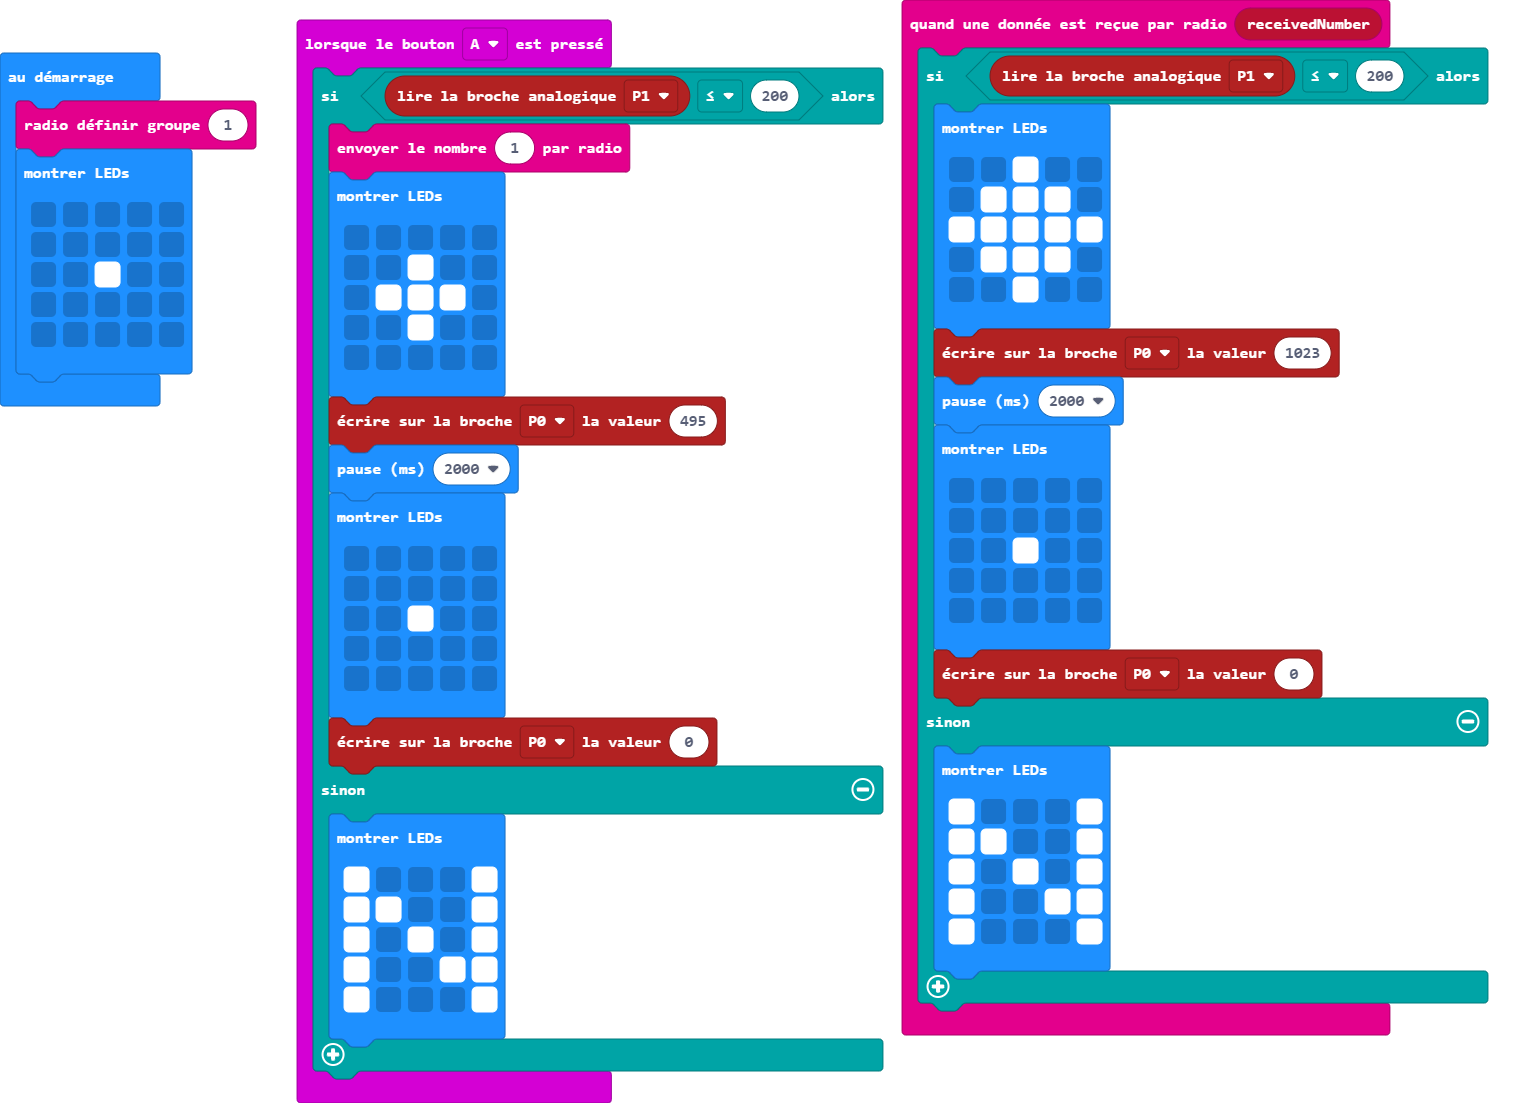
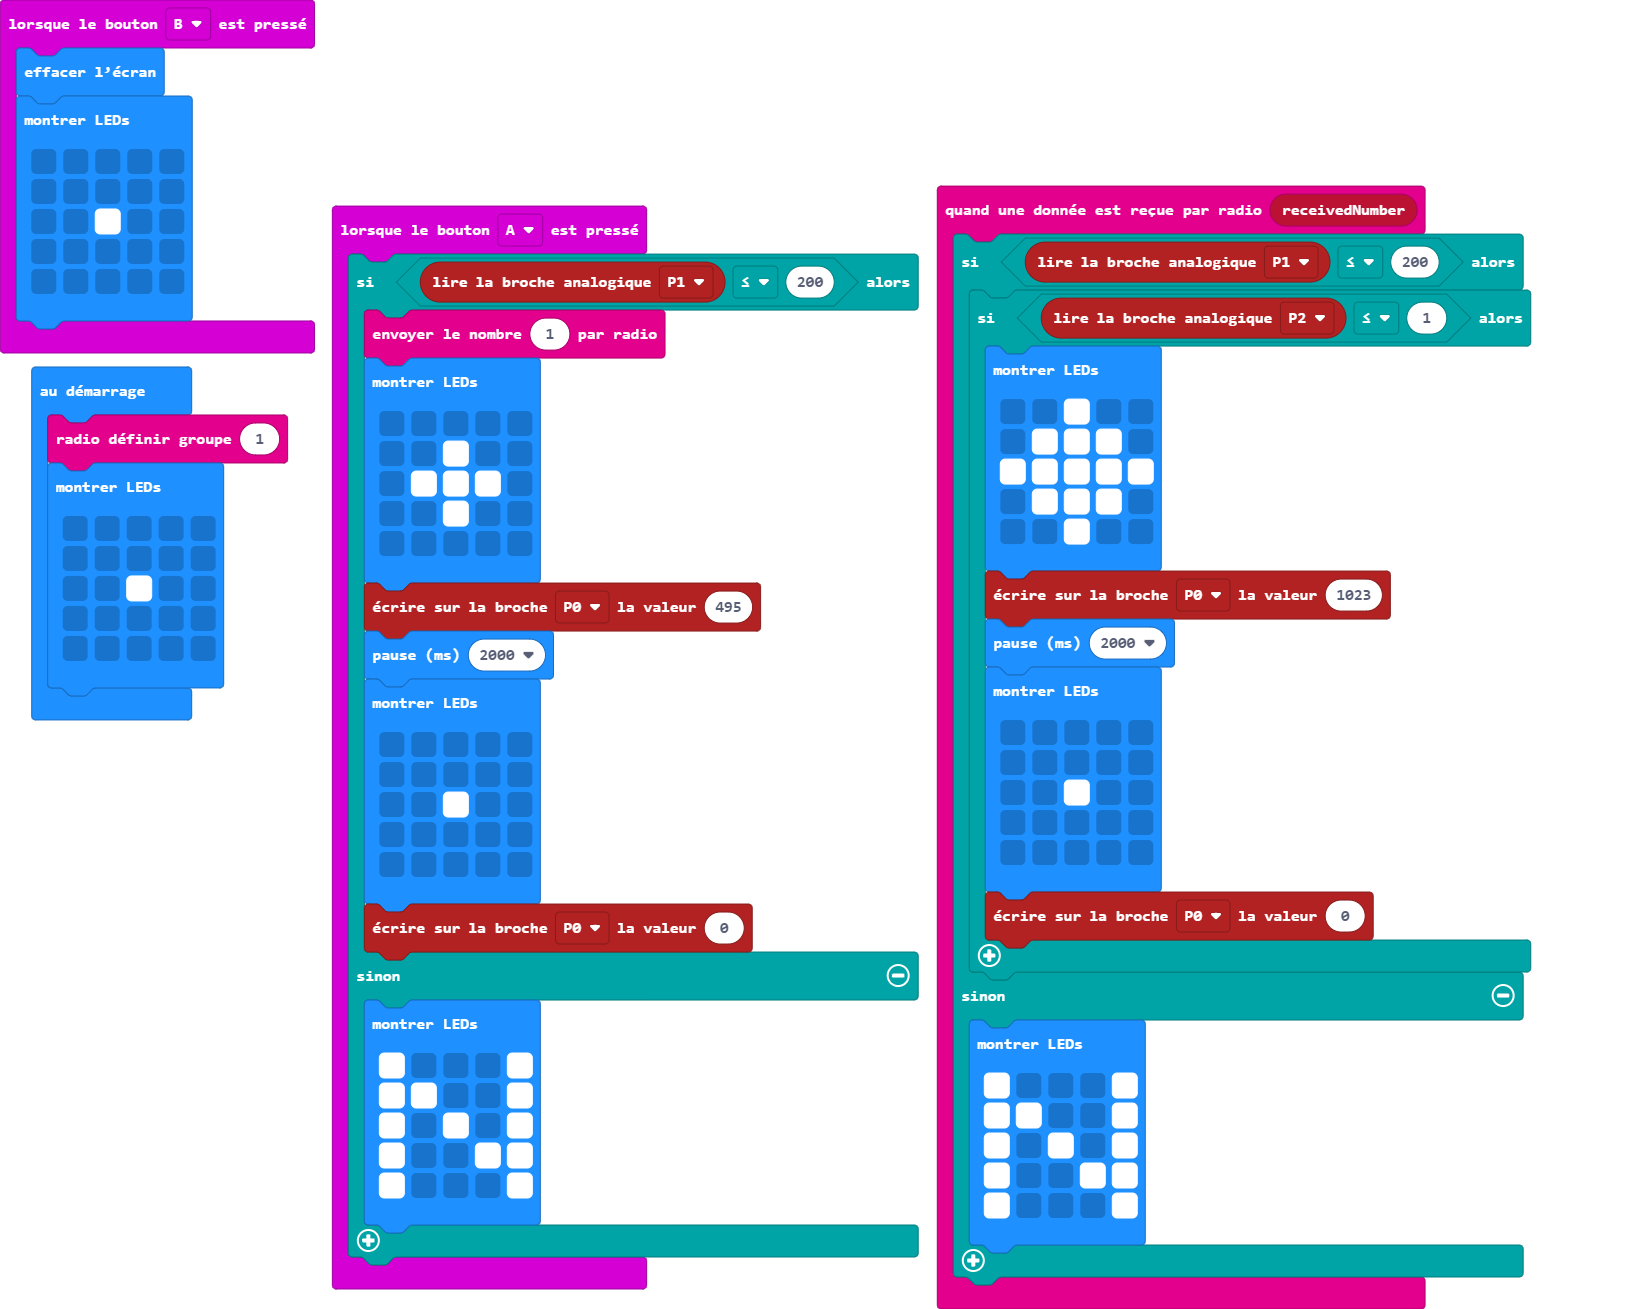
Mise à jour main.blocks, main.ts

diff --git a/main.ts b/main.ts
@@ -1,22 +1,24 @@
 radio.onReceivedNumber(function (receivedNumber) {
     if (pins.analogReadPin(AnalogPin.P1) <= 200) {
-        basic.showLeds(`
-            . . # . .
-            . # # # .
-            # # # # #
-            . # # # .
-            . . # . .
-            `)
-        pins.analogWritePin(AnalogPin.P0, 1023)
-        basic.pause(2000)
-        basic.showLeds(`
-            . . . . .
-            . . . . .
-            . . # . .
-            . . . . .
-            . . . . .
-            `)
-        pins.analogWritePin(AnalogPin.P0, 0)
+        if (pins.analogReadPin(AnalogPin.P2) <= 1) {
+            basic.showLeds(`
+                . . # . .
+                . # # # .
+                # # # # #
+                . # # # .
+                . . # . .
+                `)
+            pins.analogWritePin(AnalogPin.P0, 1023)
+            basic.pause(2000)
+            basic.showLeds(`
+                . . . . .
+                . . . . .
+                . . # . .
+                . . . . .
+                . . . . .
+                `)
+            pins.analogWritePin(AnalogPin.P0, 0)
+        }
     } else {
         basic.showLeds(`
             # . . . #
@@ -56,6 +58,16 @@ input.onButtonPressed(Button.A, function () {
             # . . . #
             `)
     }
+})
+input.onButtonPressed(Button.B, function () {
+    basic.clearScreen()
+    basic.showLeds(`
+        . . . . .
+        . . . . .
+        . . # . .
+        . . . . .
+        . . . . .
+        `)
 })
 radio.setGroup(1)
 basic.showLeds(`
